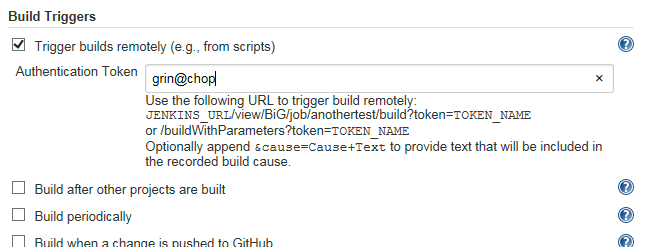
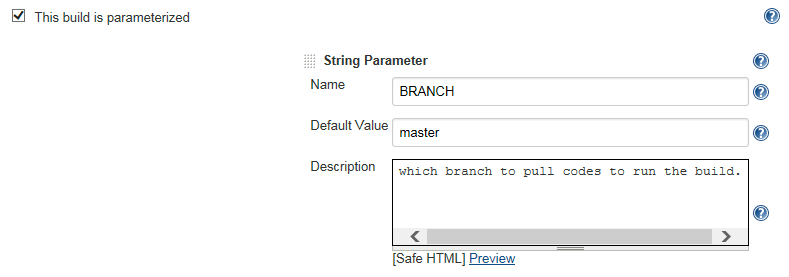
added a screenshot

diff --git a/css/ci.css b/css/ci.css
@@ -1,15 +1,15 @@
-img {
-   border: 1px solid #ccc;
-}
 .floatright {
   float: right;
   margin-left: 10px;
+  margin-top: 10px;
+  border: 1px solid #ccc;
+  
 }
 .caption {
-   text-align: center;
-   weight: heavy;
+  text-align: center;
+  weight: heavy;
 }
 
 .block {
-   display: inline-block;
+  display: inline-block;
 }

diff --git a/_posts/2016-08-18-continuous-integration.md b/_posts/2016-08-18-continuous-integration.md
@@ -80,16 +80,14 @@ and the status of the test process will be reported to the developers
 
 <a name="jenkins"></a>
 
-### Create Jenkins Project
-
 <figure class="floatright">
 <img src="/images/jenkins01.png" alt="Fig1" />
 <br>
-<br>
 <figcaption class="caption">Fig. 1 Create Jenkins Project</figcaption>
 <br>
-<br>
 </figure>
+
+### Create Jenkins Project
 
 [Jenkins](https://jenkins.io/) is an open source automation server
 for building, testing and deploying projects. It works in similar ways
@@ -113,9 +111,7 @@ You can create other kind of project appropriate for you.
 <figure class="floatright">
 <img src="/images/jenkins02.png" alt="Fig2" />
 <br>
-<br>
 <figcaption class="caption">Fig. 2 Set Notification Endpoints</figcaption>
-<br>
 <br>
 </figure>
 
@@ -132,6 +128,11 @@ you should set them to fit your case.
    * [GitHub](http://github.com) Project
       * **Project url**: http://github.research.chop.edu/BiG/grin/
 
+<br>
+<br>
+<br>
+<br>
+<br>
 
 #### Set Job Notifications
 
@@ -146,28 +147,46 @@ Of course you need to point URL to your own web server.
    * **Timeout**: 30000(ms)
    * **Log**: -1 (send all log messages)
 
-Then check the following options:
+<figure class="floatright">
+<img src="/images/jenkins03.png" alt="Fig3" />
+<br>
+<figcaption class="caption">Fig. 3 Set Build Trigger</figcaption>
+<br>
+</figure>
 
+Then check the following options and, if needed, set the settings:
+
+   * This build is parameterized (Fig. 3)
+
+      This option is for branch specification.
+      * select **String Parameter**
+      * define the name of parameter to use (e.g. BRANCH)
+      * set the default value (e.g. master)
+      * write the description, if needed.
    * Prepare an environment for the run
    * Keep [Jenkins](https://jenkins.io/) Environment Variables
    * Keep [Jenkins](https://jenkins.io/) Build Variables
    * Execute concurrent builds if necessary
 
+<br>
+<br>
+<br>
+<br>
+<br>
 #### Build Triggers
 
 <figure class="floatright">
-<img src="/images/jenkins03.png" alt="Fig3" />
+<img src="/images/jenkins04.png" alt="Fig4" />
 <br>
 <br>
-<figcaption class="caption">Fig. 3 Set Build Trigger</figcaption>
-<br>
+<figcaption class="caption">Fig. 4 Set Build Trigger</figcaption>
 <br>
 </figure>
 
 
 Check **Trigger builds remotely (e.g., from scripts)** and set
 **Authentication Token**. The token will be included in the URL
-used to trigger the build (Fig. 3).
+used to trigger the build (Fig. 4).
 
 Please note that here you have the option to set the build to
 be triggered by a push to a [GitHub](http://github.com) repository.
@@ -195,9 +214,9 @@ node ('respublica-slave') {
     // in Groovy
     stage 'Build'
     sh """
-        # cd to the repository directory and check out the master branch
+        # cd to the repository directory and check out the specified branch
 
-        git checkout master
+        git checkout ${BRANCH}
         git pull
 
         # prepare your environments if necessary
@@ -227,11 +246,10 @@ See comments in the script **jenkins** on how to authenticate to the [Jenkins](h
 for the specified branch
 on the [Jenkins](https://jenkins.io/) server.
 You can specify more than one branch separated by commas (,) or semicolons (:).
-If no branch is specified or the branch is specified as an asterisk (*),
-a push to any branch will trigger the build for the master branch.
+You must sepcify at least one branch.
 Here the master branch is specified.
      * **token**: the token from [Jenkins](https://jenkins.io/) project,
-as specified in the configuration of the [Jenkins](https://jenkins.io/) project (see Fig. 3).
+as specified in the configuration of the [Jenkins](https://jenkins.io/) project (see Fig. 4).
      * **url**: the URL for remotely triggering the build on [Jenkins](https://jenkins.io/).
 Change the server name and the path to your [Jenkins](https://jenkins.io/) project to fit your case.
 
